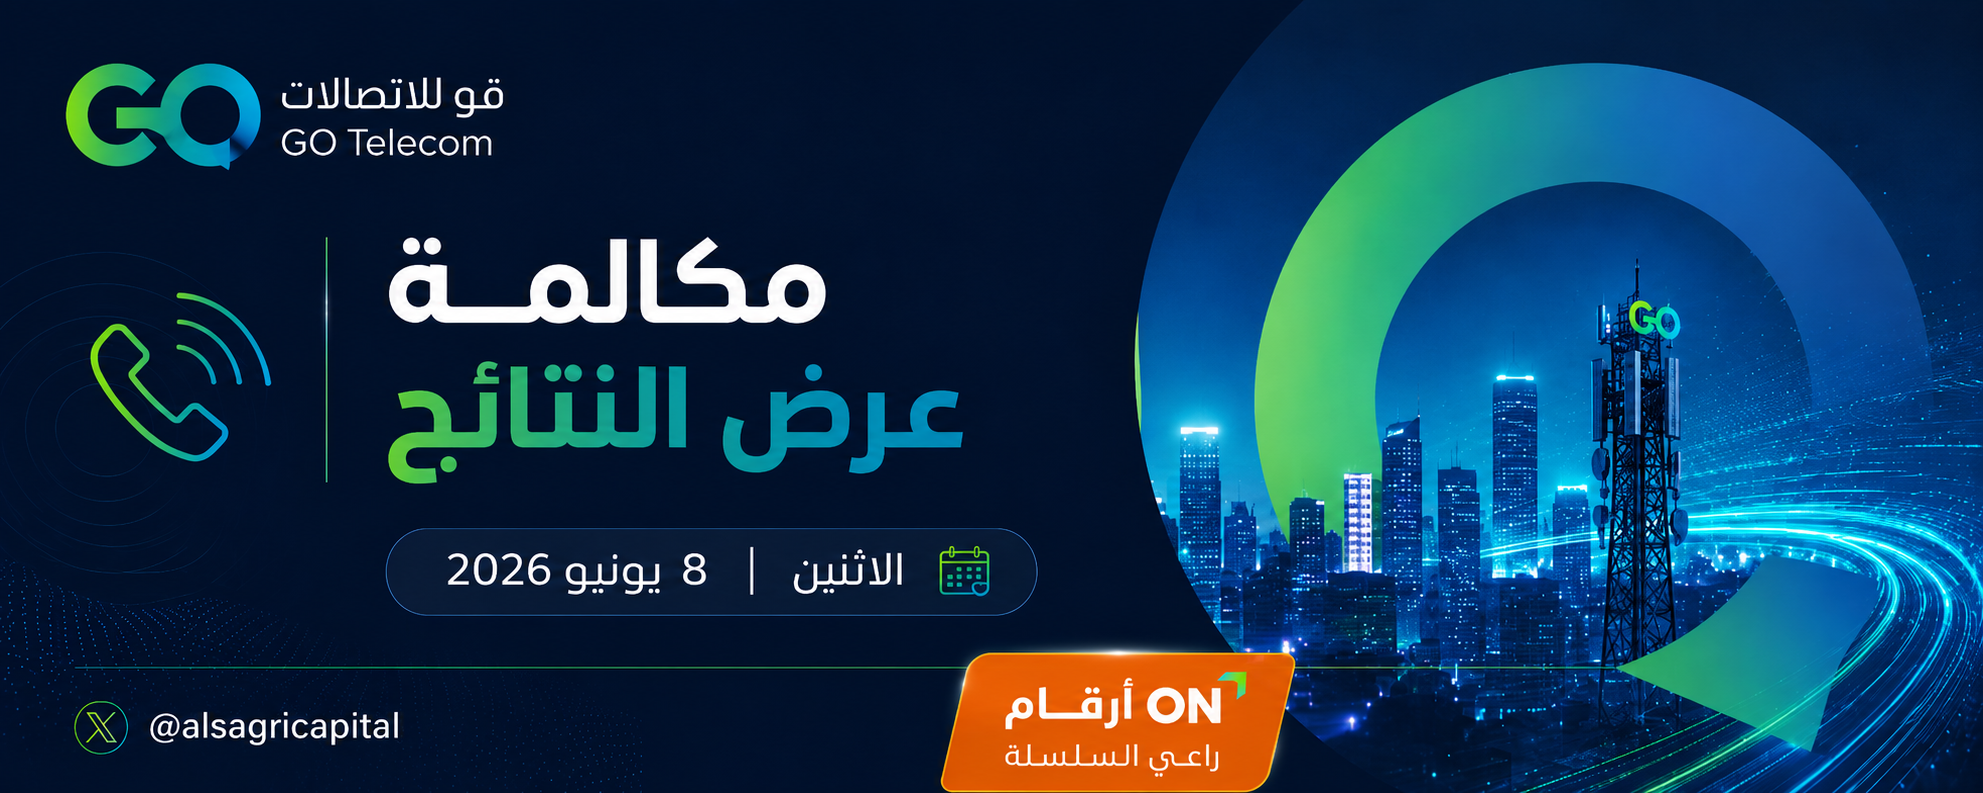
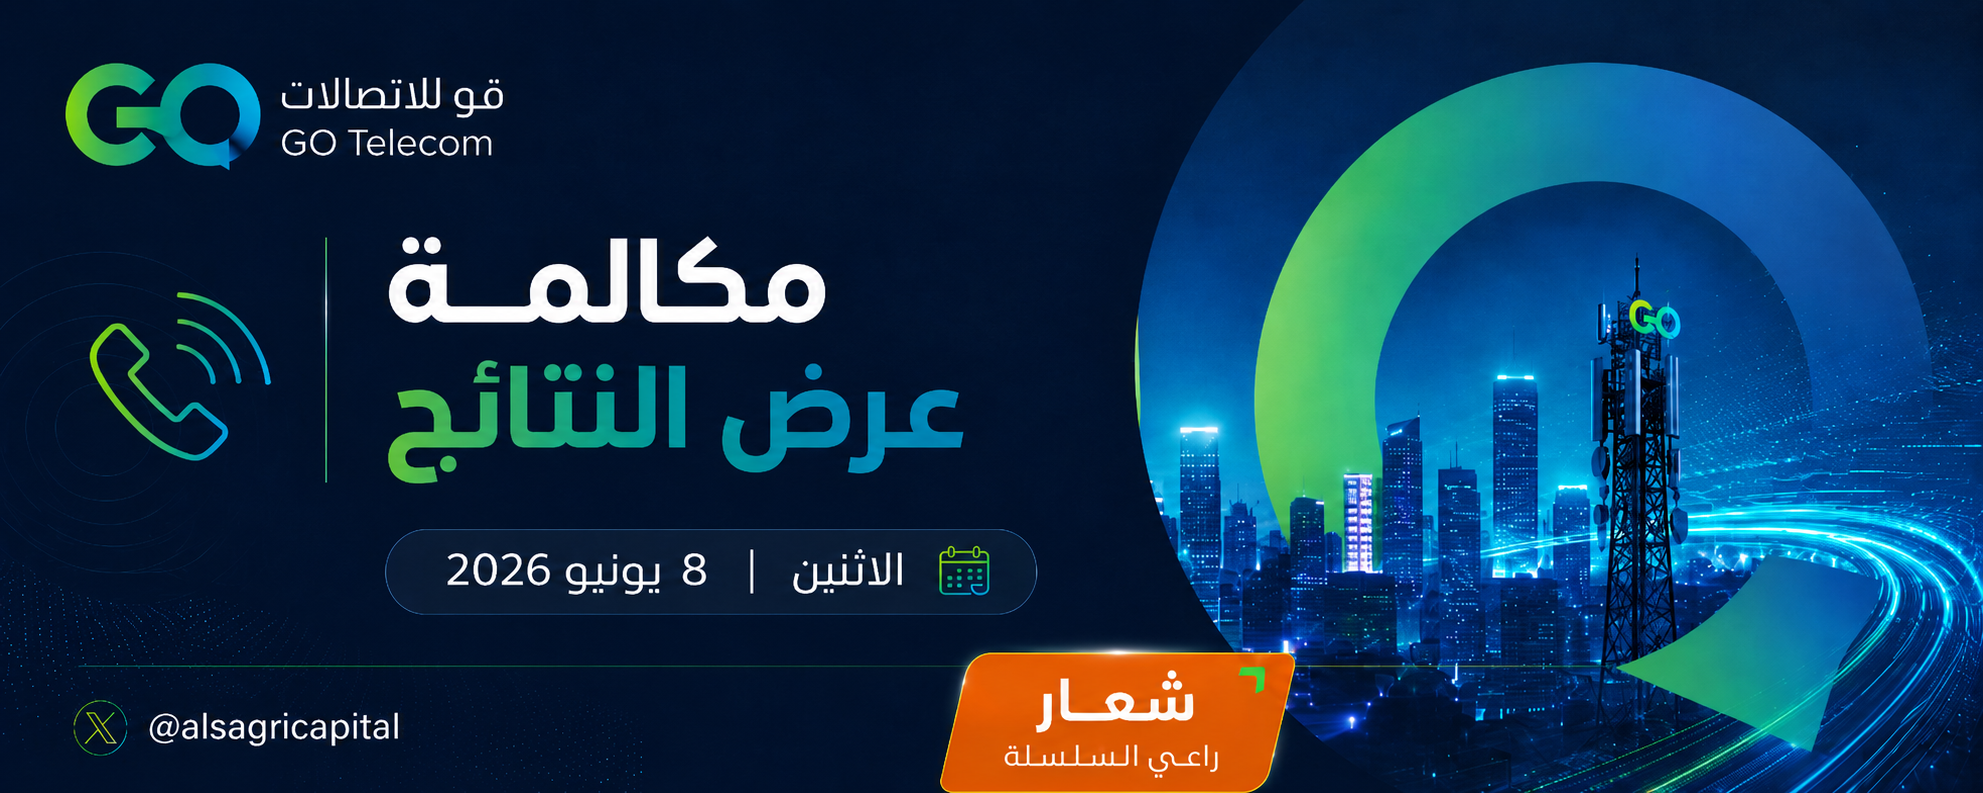
Update sponsorship images and expand Diamond features
- Replace pinned-tweet example (hero + placement A) with new image A
- Replace call-banner example (placement C) with new image C
- Spell out all Diamond package features with A/B/C placement badges
- Cache-bust sponsorship images (?v=q2e) and page assets (q2e)

diff --git a/sections.jsx b/sections.jsx
@@ -856,7 +856,7 @@ function SponsorshipQ22026() {
       code: 'A',
       title: 'غلاف التغريدة الافتتاحية المثبتة',
       text: 'مثبتة أعلى الحساب طوال الربع، وهي أول ما يراه زائر السلسلة.',
-      image: 'assets/sponsorship/q2-2026-example-tweet-enhanced.png',
+      image: 'assets/sponsorship/q2-2026-example-tweet-enhanced.png?v=q2e',
       alt: 'مثال توضيحي لغلاف التغريدة الافتتاحية المثبتة مع ظهور شعار الراعي',
     },
     {
@@ -868,7 +868,7 @@ function SponsorshipQ22026() {
       code: 'C',
       title: 'شعار العلامة التجارية في البنر الأساسي للمكالمة',
       text: 'شعار الراعي داخل البنر الأساسي للمكالمة، يظهر مع كل مكالمة منشورة طوال الموسم.',
-      image: 'assets/sponsorship/q2-2026-banner-go-telecom.png',
+      image: 'assets/sponsorship/q2-2026-banner-go-telecom.png?v=q2e',
       alt: 'مثال توضيحي لظهور شعار الراعي في البنر الأساسي لمكالمة عرض النتائج',
       wide: true,
     },
@@ -906,8 +906,10 @@ function SponsorshipQ22026() {
       priceLabel: 'للفترة',
       featured: true,
       features: [
-        { text: 'جميع مزايا الباقة الذهبية' },
+        { text: 'شعار الشركة الراعية يظهر في التغريدة المثبتة', code: 'A' },
+        { text: 'إشارة شكر وشعار الشركة الراعية يظهران في جميع المكالمات، +25 مكالمة', code: 'B' },
         { text: 'إضافة شعار الشركة الراعية في البنر الأساسي لكل مكالمة', code: 'C' },
+        { text: 'إعلان للشركة الراعية في أي وقت حسب رغبتهم خلال الفترة' },
         { text: '15,000 ريال مخصصة للترويج المدفوع في تويتر للتغريدة، مما يدعم انتشار العلامة التجارية' },
       ],
     },
@@ -955,7 +957,7 @@ function SponsorshipQ22026() {
                   <small>نموذج ظهور الراعي في التغريدة المثبتة</small>
                 </figcaption>
                 <img
-                  src="assets/sponsorship/q2-2026-example-tweet-enhanced.png"
+                  src="assets/sponsorship/q2-2026-example-tweet-enhanced.png?v=q2e"
                   alt="مثال توضيحي لتغريدة مكالمات المستثمرين مع ظهور شعار الراعي"
                   loading="eager"
                   decoding="async" />

diff --git a/sponsorship-q2-2026.html b/sponsorship-q2-2026.html
@@ -28,7 +28,7 @@
 <link rel="preconnect" href="https://fonts.googleapis.com">
 <link rel="preconnect" href="https://fonts.gstatic.com" crossorigin>
 <link href="https://fonts.googleapis.com/css2?family=IBM+Plex+Sans+Arabic:wght@300;400;500;600;700&family=IBM+Plex+Mono:wght@400;500&family=IBM+Plex+Sans:wght@400;500;600&display=swap" rel="stylesheet">
-<link rel="stylesheet" href="styles.css?v=20260617-sponsorship-q2d" />
+<link rel="stylesheet" href="styles.css?v=20260617-sponsorship-q2e" />
 </head>
 <body data-page="sponsorship">
   <div id="root"></div>
@@ -38,8 +38,8 @@
   <script src="https://unpkg.com/@babel/standalone@7.29.0/babel.min.js" integrity="sha384-m08KidiNqLdpJqLq95G/LEi8Qvjl/xUYll3QILypMoQ65QorJ9Lvtp2RXYGBFj1y" crossorigin="anonymous"></script>
 
   <script type="text/babel" src="tweaks-panel.jsx"></script>
-  <script type="text/babel" src="data.jsx?v=20260617-sponsorship-q2d"></script>
-  <script type="text/babel" src="sections.jsx?v=20260617-sponsorship-q2d"></script>
-  <script type="text/babel" src="app.jsx?v=20260617-sponsorship-q2d"></script>
+  <script type="text/babel" src="data.jsx?v=20260617-sponsorship-q2e"></script>
+  <script type="text/babel" src="sections.jsx?v=20260617-sponsorship-q2e"></script>
+  <script type="text/babel" src="app.jsx?v=20260617-sponsorship-q2e"></script>
 </body>
 </html>
